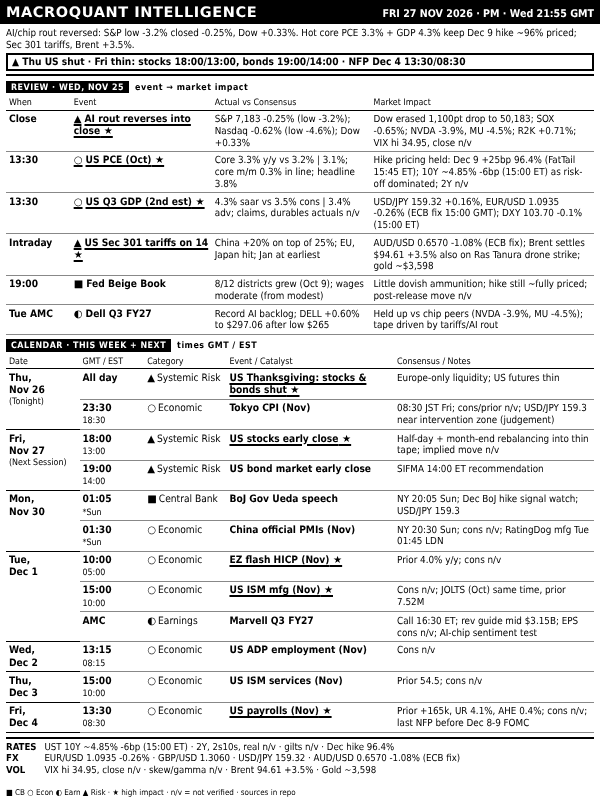
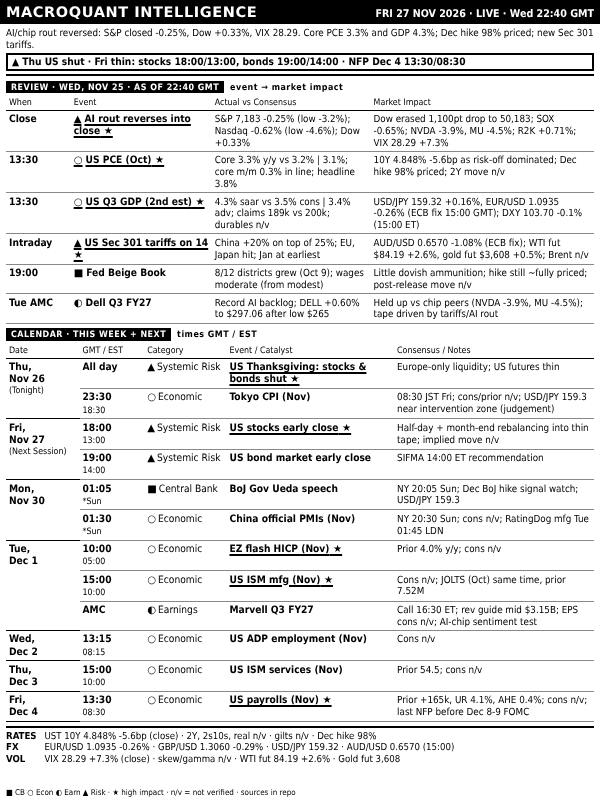
dashboard: FRI 27 NOV 2026 LIVE 22:40
Claude-Session: https://claude.ai/code/session_016SJqa4midhdCUN9U1dLaUV

diff --git a/out/dashboard.html b/out/dashboard.html
@@ -38,12 +38,12 @@ table.bd{border-collapse:collapse;width:100%;table-layout:fixed;margin-top:1px}
 </style></head><body>
 <div id="root">
  <div class="hdr"><span class="t">MACROQUANT INTELLIGENCE</span>
-  <span class="r">FRI 27 NOV 2026 · PM · Wed 21:55 GMT</span></div>
- <div class="ban"><div class="rg">AI/chip rout reversed: S&amp;P low -3.2% closed -0.25%, Dow +0.33%. Hot core PCE 3.3% + GDP 4.3% keep Dec 9 hike ~96% priced; Sec 301 tariffs, Brent +3.5%.</div><div class="al">▲ Thu US shut · Fri thin: stocks 18:00/13:00, bonds 19:00/14:00 · NFP Dec 4 13:30/08:30</div></div>
- <div class="sl"><span>REVIEW · WED, NOV 25</span>event → market impact</div><table class="bd rv"><colgroup><col style="width:11%"><col style="width:24%"><col style="width:27%"><col></colgroup><tr><th>When</th><th>Event</th><th>Actual vs Consensus</th><th>Market Impact</th></tr><tr class="h"><td class="tm"><b>Close</b></td><td class="ev"><i>▲</i>AI rout reverses into close</td><td class="ac">S&amp;P 7,183 -0.25% (low -3.2%); Nasdaq -0.62% (low -4.6%); Dow +0.33%</td><td class="nt">Dow erased 1,100pt drop to 50,183; SOX -0.65%; NVDA -3.9%, MU -4.5%; R2K +0.71%; VIX hi 34.95, close n/v</td></tr><tr class="h"><td class="tm"><b>13:30</b></td><td class="ev"><i>○</i>US PCE (Oct)</td><td class="ac">Core 3.3% y/y vs 3.2% | 3.1%; core m/m 0.3% in line; headline 3.8%</td><td class="nt">Hike pricing held: Dec 9 +25bp 96.4% (FatTail 15:45 ET); 10Y ~4.85% -6bp (15:00 ET) as risk-off dominated; 2Y n/v</td></tr><tr class="h"><td class="tm"><b>13:30</b></td><td class="ev"><i>○</i>US Q3 GDP (2nd est)</td><td class="ac">4.3% saar vs 3.5% cons | 3.4% adv; claims, durables actuals n/v</td><td class="nt">USD/JPY 159.32 +0.16%, EUR/USD 1.0935 -0.26% (ECB fix 15:00 GMT); DXY 103.70 -0.1% (15:00 ET)</td></tr><tr class="h"><td class="tm"><b>Intraday</b></td><td class="ev"><i>▲</i>US Sec 301 tariffs on 14</td><td class="ac">China +20% on top of 25%; EU, Japan hit; Jan at earliest</td><td class="nt">AUD/USD 0.6570 -1.08% (ECB fix); Brent settles $94.61 +3.5% also on Ras Tanura drone strike; gold ~$3,598</td></tr><tr><td class="tm"><b>19:00</b></td><td class="ev"><i>■</i>Fed Beige Book</td><td class="ac">8/12 districts grew (Oct 9); wages moderate (from modest)</td><td class="nt">Little dovish ammunition; hike still ~fully priced; post-release move n/v</td></tr><tr><td class="tm"><b>Tue AMC</b></td><td class="ev"><i>◐</i>Dell Q3 FY27</td><td class="ac">Record AI backlog; DELL +0.60% to $297.06 after low $265</td><td class="nt">Held up vs chip peers (NVDA -3.9%, MU -4.5%); tape driven by tariffs/AI rout</td></tr></table>
+  <span class="r">FRI 27 NOV 2026 · LIVE · Wed 22:40 GMT</span></div>
+ <div class="ban"><div class="rg">AI/chip rout reversed: S&amp;P closed -0.25%, Dow +0.33%, VIX 28.29. Core PCE 3.3% and GDP 4.3%; Dec hike 98% priced; new Sec 301 tariffs.</div><div class="al">▲ Thu US shut · Fri thin: stocks 18:00/13:00, bonds 19:00/14:00 · NFP Dec 4 13:30/08:30</div></div>
+ <div class="sl"><span>REVIEW · WED, NOV 25 · AS OF 22:40 GMT</span>event → market impact</div><table class="bd rv"><colgroup><col style="width:11%"><col style="width:24%"><col style="width:27%"><col></colgroup><tr><th>When</th><th>Event</th><th>Actual vs Consensus</th><th>Market Impact</th></tr><tr class="h"><td class="tm"><b>Close</b></td><td class="ev"><i>▲</i>AI rout reverses into close</td><td class="ac">S&amp;P 7,183 -0.25% (low -3.2%); Nasdaq -0.62% (low -4.6%); Dow +0.33%</td><td class="nt">Dow erased 1,100pt drop to 50,183; SOX -0.65%; NVDA -3.9%, MU -4.5%; R2K +0.71%; VIX 28.29 +7.3%</td></tr><tr class="h"><td class="tm"><b>13:30</b></td><td class="ev"><i>○</i>US PCE (Oct)</td><td class="ac">Core 3.3% y/y vs 3.2% | 3.1%; core m/m 0.3% in line; headline 3.8%</td><td class="nt">10Y 4.848% -5.6bp as risk-off dominated; Dec hike 98% priced; 2Y move n/v</td></tr><tr class="h"><td class="tm"><b>13:30</b></td><td class="ev"><i>○</i>US Q3 GDP (2nd est)</td><td class="ac">4.3% saar vs 3.5% cons | 3.4% adv; claims 189k vs 200k; durables n/v</td><td class="nt">USD/JPY 159.32 +0.16%, EUR/USD 1.0935 -0.26% (ECB fix 15:00 GMT); DXY 103.70 -0.1% (15:00 ET)</td></tr><tr class="h"><td class="tm"><b>Intraday</b></td><td class="ev"><i>▲</i>US Sec 301 tariffs on 14</td><td class="ac">China +20% on top of 25%; EU, Japan hit; Jan at earliest</td><td class="nt">AUD/USD 0.6570 -1.08% (ECB fix); WTI fut $84.19 +2.6%, gold fut $3,608 +0.5%; Brent n/v</td></tr><tr><td class="tm"><b>19:00</b></td><td class="ev"><i>■</i>Fed Beige Book</td><td class="ac">8/12 districts grew (Oct 9); wages moderate (from modest)</td><td class="nt">Little dovish ammunition; hike still ~fully priced; post-release move n/v</td></tr><tr><td class="tm"><b>Tue AMC</b></td><td class="ev"><i>◐</i>Dell Q3 FY27</td><td class="ac">Record AI backlog; DELL +0.60% to $297.06 after low $265</td><td class="nt">Held up vs chip peers (NVDA -3.9%, MU -4.5%); tape driven by tariffs/AI rout</td></tr></table>
  <div class="sl"><span>CALENDAR · THIS WEEK + NEXT</span>times GMT / EST</div>
  <table class="bd"><colgroup><col style="width:12.5%"><col style="width:11%"><col style="width:14%"><col style="width:28.5%"><col></colgroup><tr><th>Date</th><th>GMT / EST</th><th>Category</th><th>Event / Catalyst</th><th>Consensus / Notes</th></tr><tr class="g0 h"><td class="dt" rowspan="2">Thu,<br>Nov&nbsp;26<span class="tg">(Tonight)</span></td><td class="tm"><b>All day</b></td><td class="ct"><i>▲</i>Systemic Risk</td><td class="ev">US Thanksgiving: stocks &amp; bonds shut</td><td class="nt">Europe-only liquidity; US futures thin</td></tr><tr class=""><td class="tm"><b>23:30</b><span>18:30</span></td><td class="ct"><i>○</i>Economic</td><td class="ev">Tokyo CPI (Nov)</td><td class="nt">08:30 JST Fri; cons/prior n/v; USD/JPY 159.3 near intervention zone (judgement)</td></tr><tr class="g0 h"><td class="dt" rowspan="2">Fri,<br>Nov&nbsp;27<span class="tg">(Next Session)</span></td><td class="tm"><b>18:00</b><span>13:00</span></td><td class="ct"><i>▲</i>Systemic Risk</td><td class="ev">US stocks early close</td><td class="nt">Half-day + month-end rebalancing into thin tape; implied move n/v</td></tr><tr class=""><td class="tm"><b>19:00</b><span>14:00</span></td><td class="ct"><i>▲</i>Systemic Risk</td><td class="ev">US bond market early close</td><td class="nt">SIFMA 14:00 ET recommendation</td></tr><tr class="g0"><td class="dt" rowspan="2">Mon,<br>Nov&nbsp;30</td><td class="tm"><b>01:05</b><span>*Sun</span></td><td class="ct"><i>■</i>Central Bank</td><td class="ev">BoJ Gov Ueda speech</td><td class="nt">NY 20:05 Sun; Dec BoJ hike signal watch; USD/JPY 159.3</td></tr><tr class=""><td class="tm"><b>01:30</b><span>*Sun</span></td><td class="ct"><i>○</i>Economic</td><td class="ev">China official PMIs (Nov)</td><td class="nt">NY 20:30 Sun; cons n/v; RatingDog mfg Tue 01:45 LDN</td></tr><tr class="g0 h"><td class="dt" rowspan="3">Tue,<br>Dec&nbsp;1</td><td class="tm"><b>10:00</b><span>05:00</span></td><td class="ct"><i>○</i>Economic</td><td class="ev">EZ flash HICP (Nov)</td><td class="nt">Prior 4.0% y/y; cons n/v</td></tr><tr class="h"><td class="tm"><b>15:00</b><span>10:00</span></td><td class="ct"><i>○</i>Economic</td><td class="ev">US ISM mfg (Nov)</td><td class="nt">Cons n/v; JOLTS (Oct) same time, prior 7.52M</td></tr><tr class=""><td class="tm"><b>AMC</b></td><td class="ct"><i>◐</i>Earnings</td><td class="ev">Marvell Q3 FY27</td><td class="nt">Call 16:30 ET; rev guide mid $3.15B; EPS cons n/v; AI-chip sentiment test</td></tr><tr class="g0"><td class="dt" rowspan="1">Wed,<br>Dec&nbsp;2</td><td class="tm"><b>13:15</b><span>08:15</span></td><td class="ct"><i>○</i>Economic</td><td class="ev">US ADP employment (Nov)</td><td class="nt">Cons n/v</td></tr><tr class="g0"><td class="dt" rowspan="1">Thu,<br>Dec&nbsp;3</td><td class="tm"><b>15:00</b><span>10:00</span></td><td class="ct"><i>○</i>Economic</td><td class="ev">US ISM services (Nov)</td><td class="nt">Prior 54.5; cons n/v</td></tr><tr class="g0 h"><td class="dt" rowspan="1">Fri,<br>Dec&nbsp;4</td><td class="tm"><b>13:30</b><span>08:30</span></td><td class="ct"><i>○</i>Economic</td><td class="ev">US payrolls (Nov)</td><td class="nt">Prior +165k, UR 4.1%, AHE 0.4%; cons n/v; last NFP before Dec 8-9 FOMC</td></tr></table>
- <div class="lv"><div><b>RATES</b>UST 10Y ~4.85% -6bp (15:00 ET) · 2Y, 2s10s, real n/v · gilts n/v · Dec hike 96.4%</div><div><b>FX</b>EUR/USD 1.0935 -0.26% · GBP/USD 1.3060 · USD/JPY 159.32 · AUD/USD 0.6570 -1.08% (ECB fix)</div><div><b>VOL</b>VIX hi 34.95, close n/v · skew/gamma n/v · Brent 94.61 +3.5% · Gold ~3,598</div></div>
+ <div class="lv"><div><b>RATES</b>UST 10Y 4.848% -5.6bp (close) · 2Y, 2s10s, real n/v · gilts n/v · Dec hike 98%</div><div><b>FX</b>EUR/USD 1.0935 -0.26% · GBP/USD 1.3060 -0.29% · USD/JPY 159.32 · AUD/USD 0.6570 (15:00)</div><div><b>VOL</b>VIX 28.29 +7.3% (close) · skew/gamma n/v · WTI fut 84.19 +2.6% · Gold fut 3,608</div></div>
 </div>
 <div class="foot">■ CB ○ Econ ◐ Earn ▲ Risk · ★ high impact · n/v = not verified · sources in repo</div>
 </body></html>
